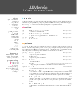
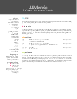
Updates download doc

diff --git a/DOWNLOAD.md b/DOWNLOAD.md
@@ -1,5 +1,5 @@
 # Download CV
 
 
-[Download latest version of CV in PDF](https://github.com/JJ/cv/releases/download/v2021.05.1/cv.pdf)
+[Download latest version of CV in PDF](https://github.com/JJ/cv/releases/download/v2023.03.1/cv.pdf)
 
